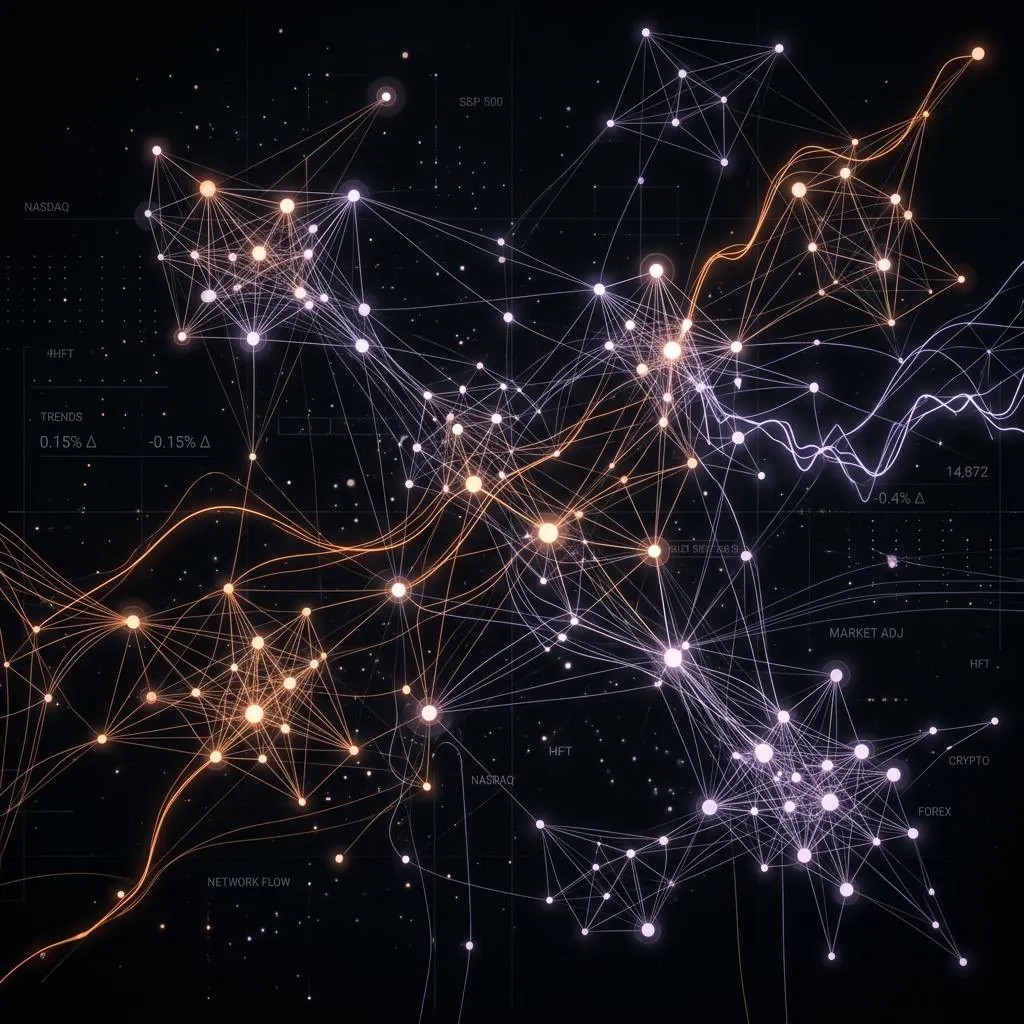
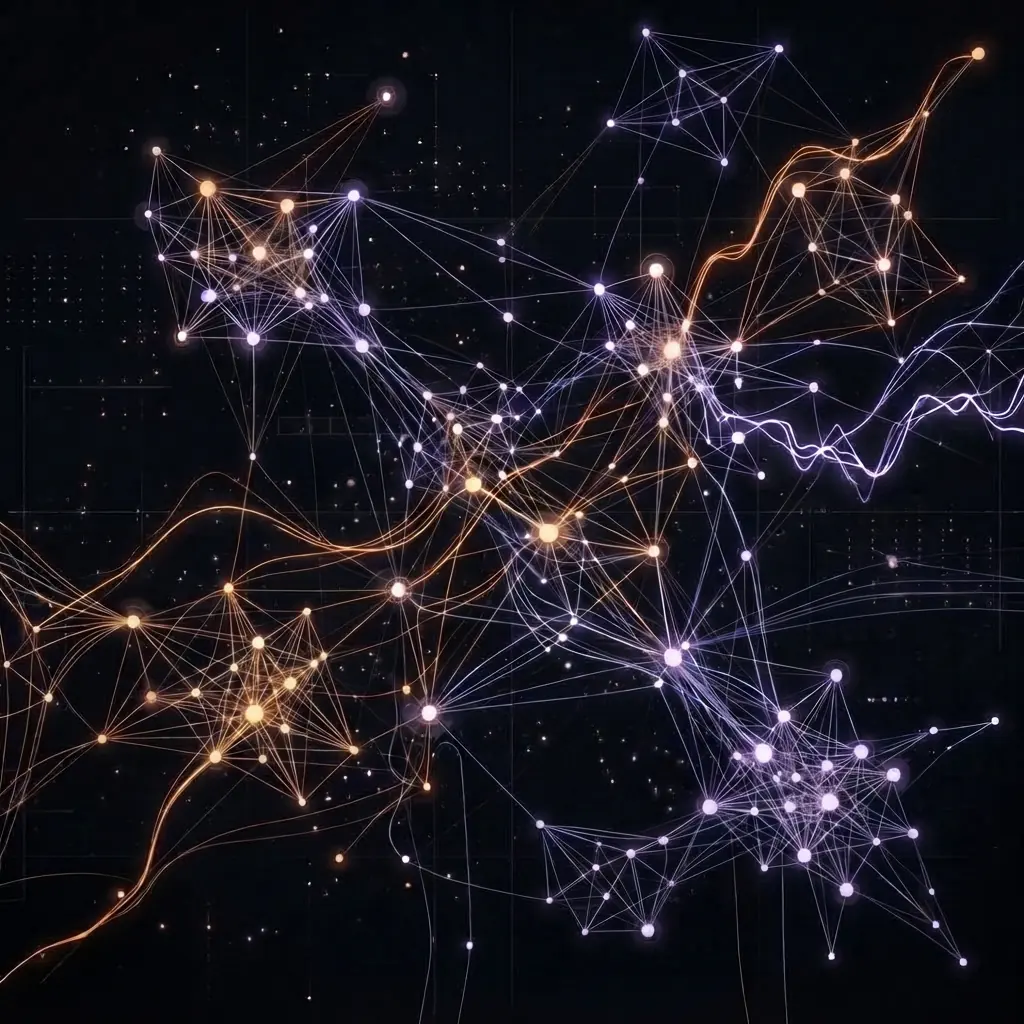
style: soften landing hero artwork

diff --git a/src/app/globals.css b/src/app/globals.css
@@ -10152,13 +10152,14 @@ main,
 
 .landing-v2-network {
   position: absolute;
-  inset: 0;
-  opacity: 0.38;
+  inset: -3px;
+  opacity: 0.25;
   background-image: url("/landing/market-network-hero.webp");
   background-position: center;
   background-repeat: no-repeat;
   background-size: cover;
-  filter: brightness(0.72) saturate(0.88);
+  filter: blur(1.5px) brightness(0.62) saturate(0.78);
+  transform: scale(1.01);
   pointer-events: none;
 }
 
@@ -10194,7 +10195,8 @@ main,
   gap: 9px;
   border: 1px solid #343039;
   padding: 8px 10px;
-  color: #b8b2bc;
+  background: rgba(8, 8, 11, 0.72);
+  color: #d3ced6;
 }
 
 .landing-v2-kicker span,
@@ -10214,6 +10216,7 @@ main,
   font-weight: 900;
   line-height: 0.98;
   letter-spacing: 0;
+  text-shadow: 0 3px 20px rgba(0, 0, 0, 0.88);
 }
 
 .landing-v2-hero-copy h1 strong {
@@ -10230,9 +10233,10 @@ main,
 .landing-v2-lead {
   max-width: 540px;
   margin: 30px 0 0;
-  color: var(--landing-muted);
+  color: #c0bac3;
   font-size: 15px;
   line-height: 1.75;
+  text-shadow: 0 2px 14px rgba(0, 0, 0, 0.92);
 }
 
 .landing-v2-actions {
@@ -11066,7 +11070,7 @@ main,
 
   .landing-v2-network {
     display: block;
-    opacity: 0.2;
+    opacity: 0.14;
     background-position: 58% center;
   }
 
